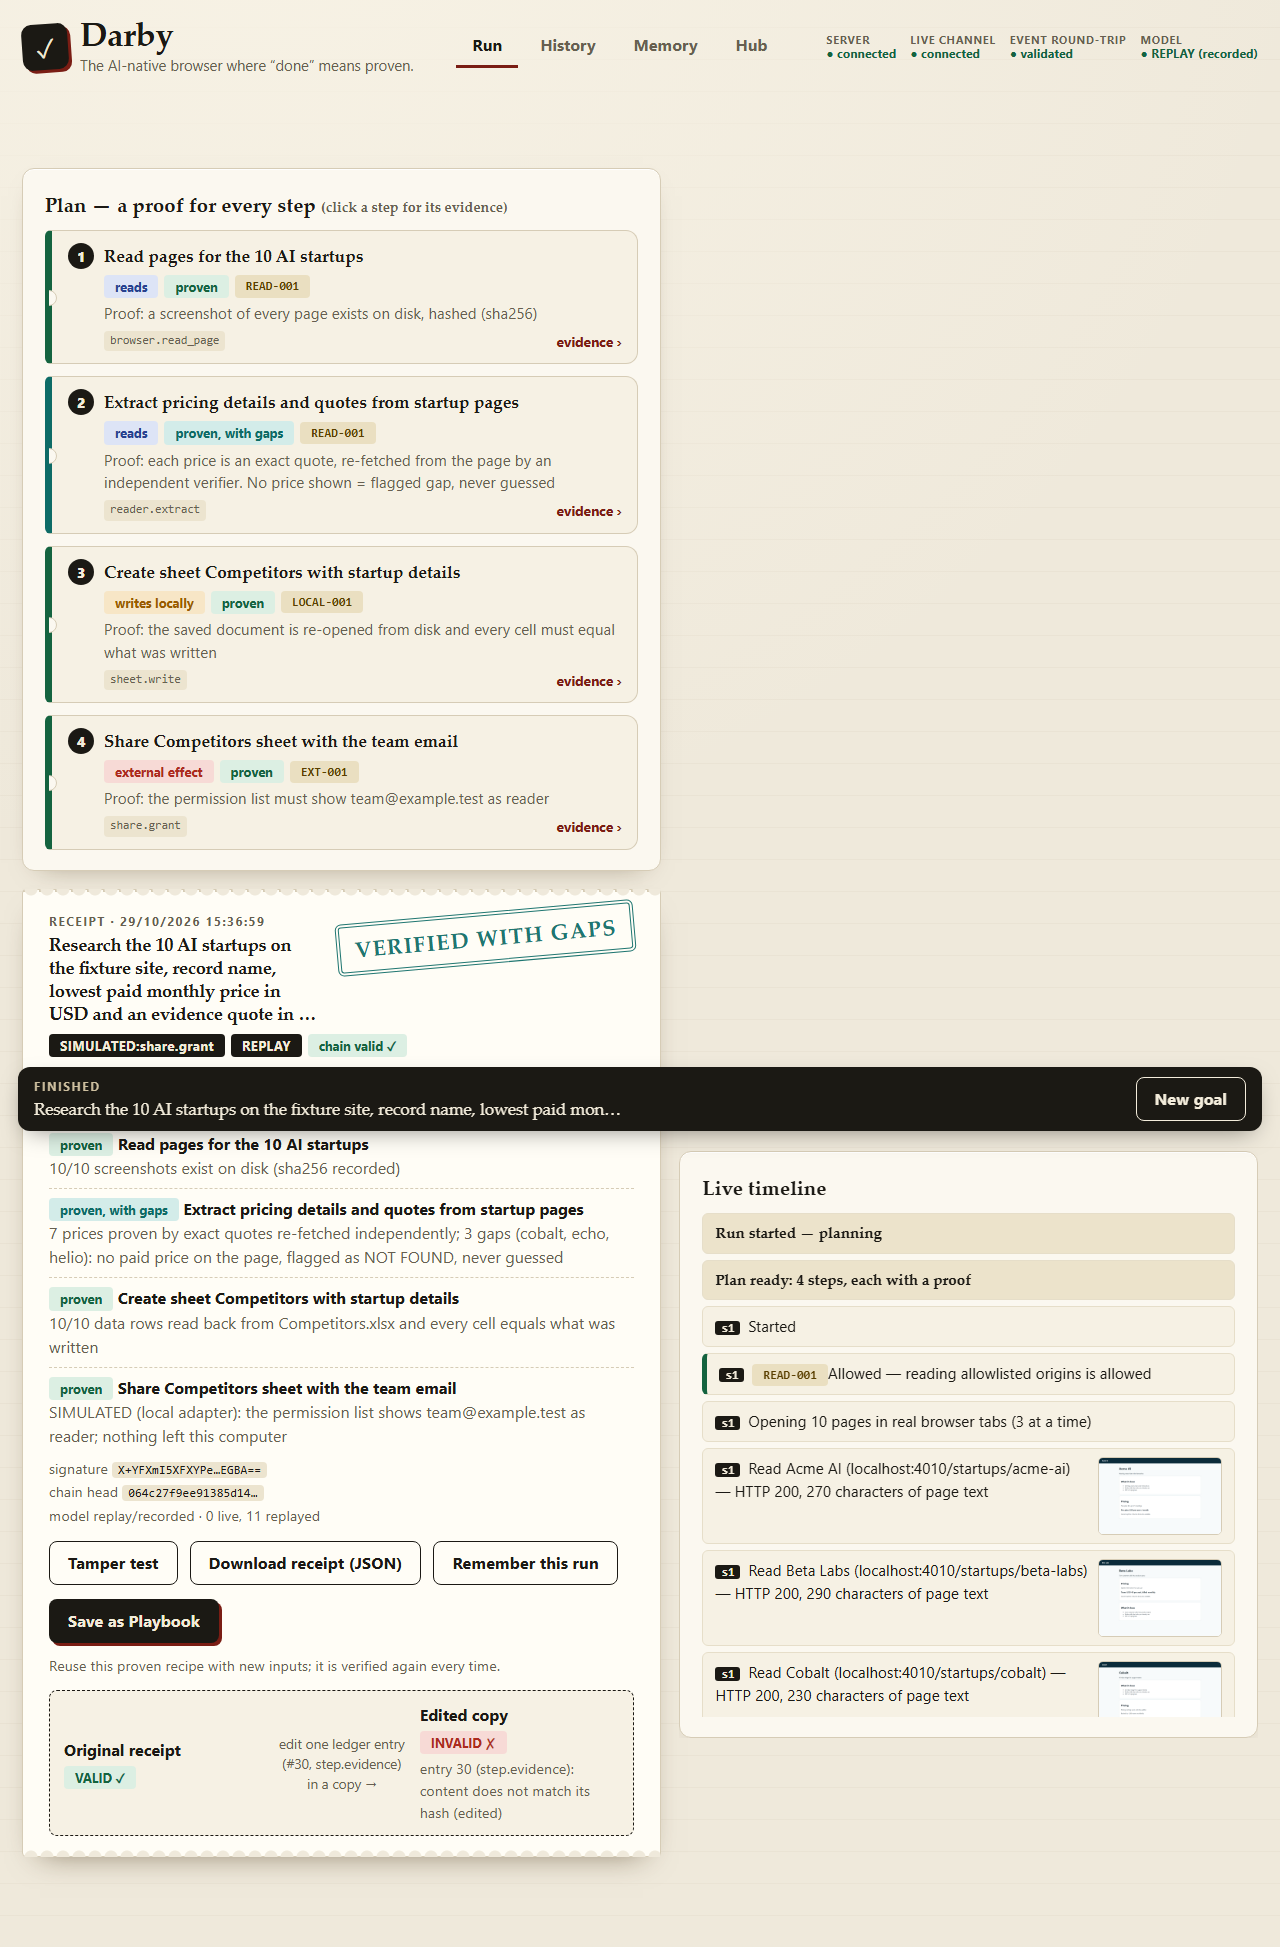
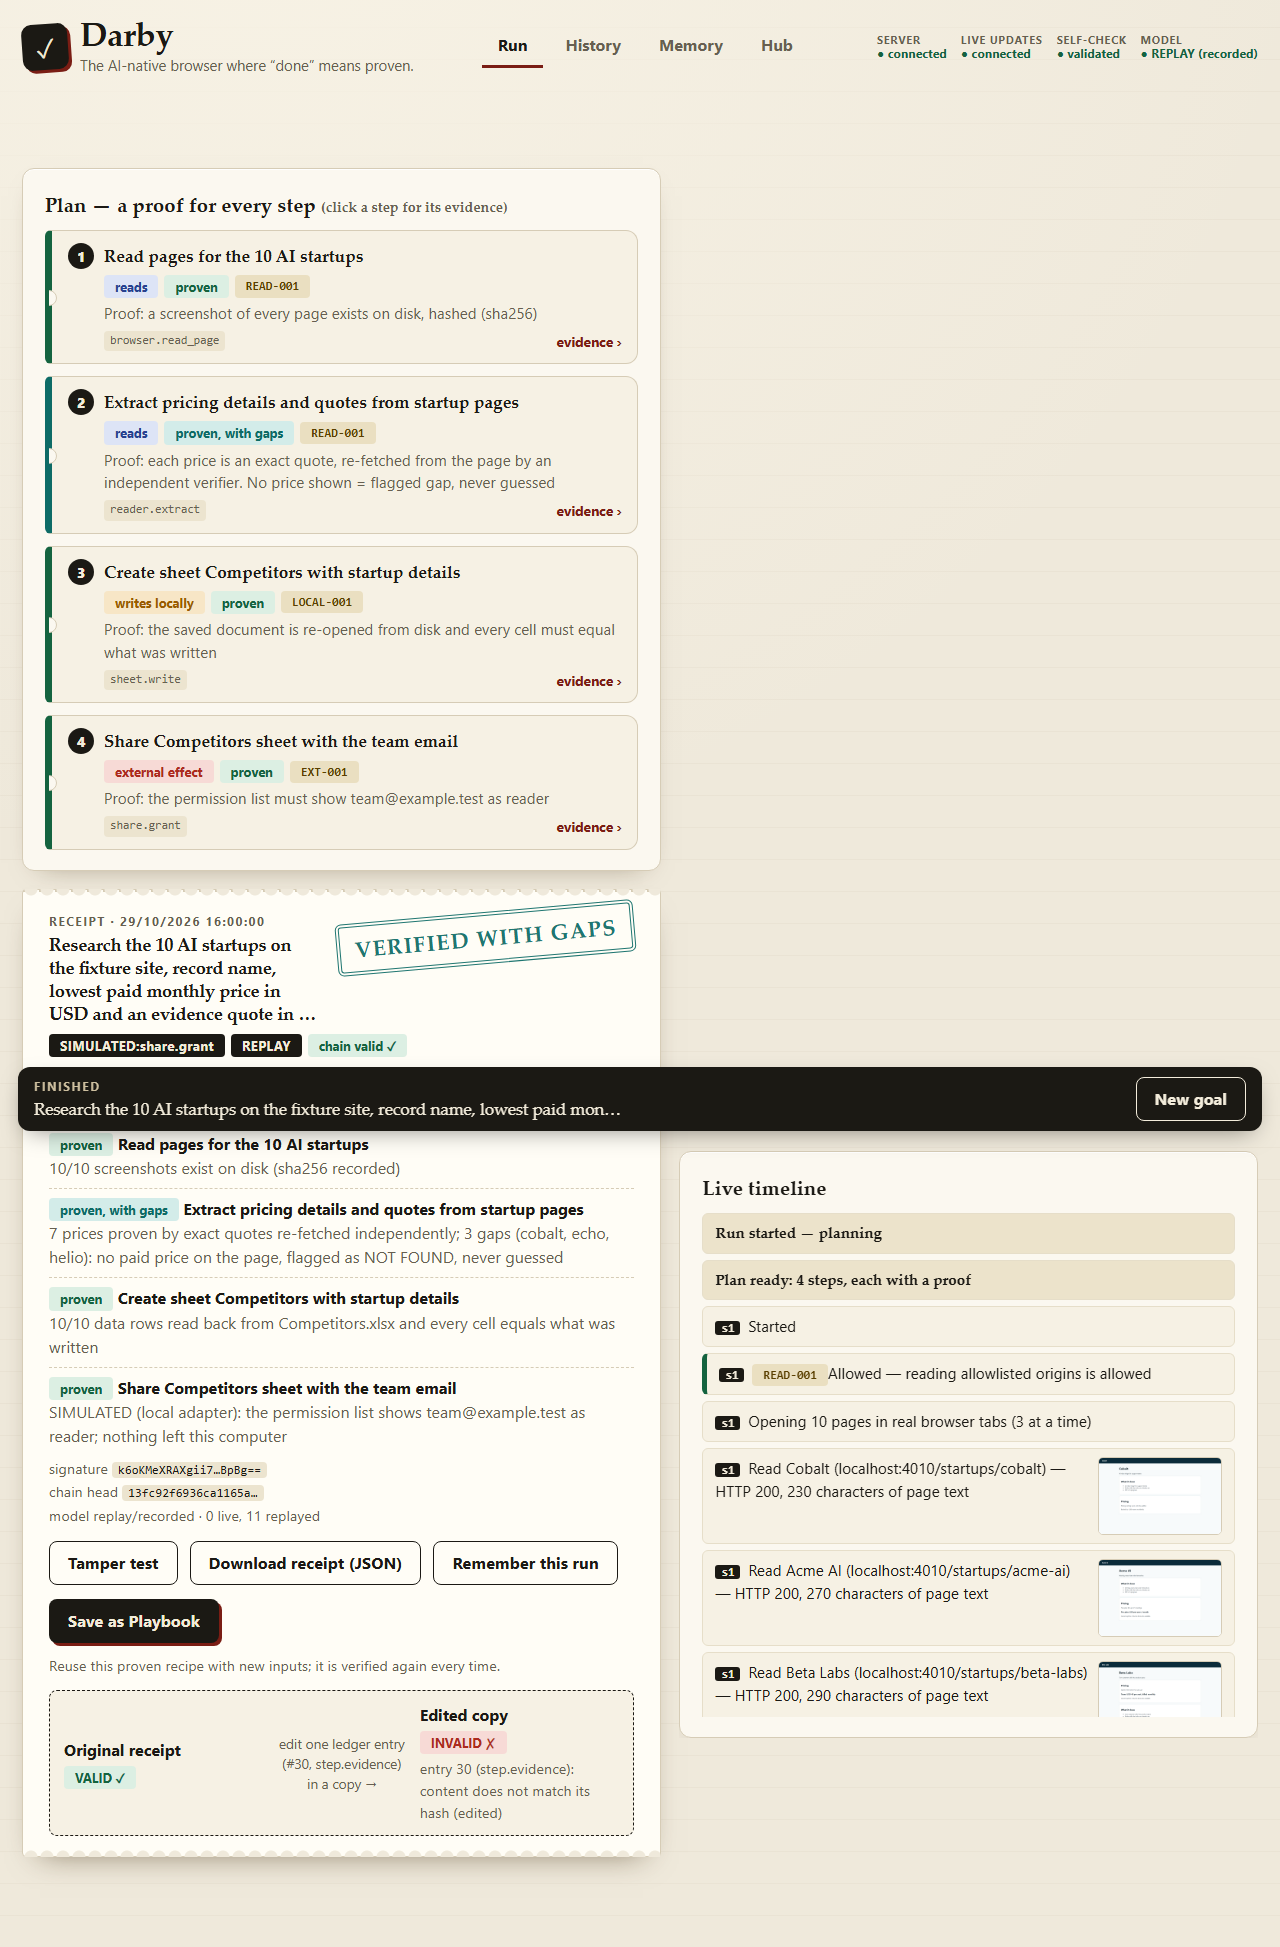
UI polish: first-run explainer, plain status labels, AI casing, teaser poster, clean approval path; walkthrough waits for the landing preview

diff --git a/apps/companion/src/parts.tsx b/apps/companion/src/parts.tsx
@@ -106,7 +106,7 @@ export function ApprovalCard({ run, onResolve, onTakeover }: { run: RunView; onR
   if (!a) return null;
   const d = a.details as Record<string, unknown>;
   const rows: [string, string][] = ([['Target', 'target'], ['Role', 'role'], ['Document', 'document'], ['Content', 'contentSummary']] as [string, string][])
-    .filter(([, k]) => d[k] !== undefined).map(([l, k]) => [l, String(d[k])]);
+    .filter(([, k]) => d[k] !== undefined).map(([l, k]) => [l, k === 'document' ? String(d[k]).split(/[\/]/).pop() ?? String(d[k]) : String(d[k])]);
   return (
     <section className="approval" data-testid="approval-card" role="alert" aria-label="Approval needed">
       <div className="approval-tag">Needs your approval</div>
@@ -141,7 +141,7 @@ export function ReviewPanel({ run, detail }: { run: RunView; detail: RunDetail |
       <h2>Review — what Darby made <span className="muted small">(look before you approve)</span></h2>
       <div className="review-grid">
         {hero && (<figure><img src={hero} alt="Hero image" data-testid="review-hero" /><figcaption>Hero image <span className="chip label">generated placeholder</span></figcaption></figure>)}
-        {teaser && (<figure><video src={teaser} controls preload="metadata" data-testid="review-video" /><figcaption>15-second teaser (hero + captions + voiceover)</figcaption></figure>)}
+        {teaser && (<figure><video src={teaser} poster={hero ?? undefined} controls preload="metadata" data-testid="review-video" /><figcaption>15-second teaser (hero + captions + voiceover)</figcaption></figure>)}
         {voice && (<figure><audio src={voice} controls preload="metadata" data-testid="review-audio" /><figcaption>Voiceover {labels.filter((l) => /^(VOICE:|PLACEHOLDER:voiceover)/.test(l)).map((l) => (<span key={l} className="chip label">{l}</span>))}</figcaption></figure>)}
         {landing && (<figure className="wide"><iframe src={landing} title="Landing page preview" sandbox="allow-scripts" data-testid="review-page" /><figcaption>Landing page (runs in a sandbox) · <a href={landing} target="_blank" rel="noreferrer">open</a>{copy && <> · <a href={copy} target="_blank" rel="noreferrer">copy.json</a></>}</figcaption></figure>)}
       </div>

diff --git a/apps/companion/src/App.tsx b/apps/companion/src/App.tsx
@@ -88,8 +88,8 @@ export function App() {
         </nav>
         <ul className="leds">
           <Led name="Server" link={d.server} />
-          <Led name="Live channel" link={d.socket} />
-          <Led name="Event round-trip" link={d.echo === 'ok' ? 'up' : d.echo === 'failed' ? 'down' : 'connecting'} detail={d.echo === 'ok' ? 'validated' : undefined} />
+          <Led name="Live updates" link={d.socket} />
+          <Led name="Self-check" link={d.echo === 'ok' ? 'up' : d.echo === 'failed' ? 'down' : 'connecting'} detail={d.echo === 'ok' ? 'validated' : undefined} />
           {d.config && <Led name="Model" link="up" detail={d.config.llm.replayOnly ? 'REPLAY (recorded)' : `${d.config.llm.provider}/${d.config.llm.model}`} />}
         </ul>
       </header>
@@ -127,6 +127,13 @@ export function App() {
               {EXAMPLES.map((x) => (<button key={x.label} className="btn ghost" onClick={() => setGoal(x.goal)} data-testid={`example-${x.label.slice(0, 6).replace(/\W/g, '').toLowerCase()}`}>{x.label}</button>))}
             </div>
             {d.error && <p className="error" role="alert">{d.error}</p>}
+          </section>
+          <section className="how" aria-label="How Darby works">
+            <ol>
+              <li><span className="how-n">1</span><div><strong>Plans with proof</strong><p>Every step names what would prove it, before anything runs.</p></div></li>
+              <li><span className="how-n">2</span><div><strong>Works in real tabs</strong><p>Pages are read by an isolated reader. Risky steps wait for you.</p></div></li>
+              <li><span className="how-n">3</span><div><strong>Checks itself, then shows the receipt</strong><p>An independent verifier re-reads the result. You get a signed, tamper-evident verdict.</p></div></li>
+            </ol>
           </section>
           <History items={d.history.slice(0, 5)} onOpen={(id) => void d.open(id)} />
         </main>

diff --git a/apps/companion/src/styles.css b/apps/companion/src/styles.css
@@ -172,3 +172,12 @@ textarea { resize: vertical; }
 .pb-saved { margin: 12px 0 0; color: var(--green); font-weight: 600; }
 @media (max-width: 760px) { .pb-head { flex-direction: column; } }
 .pb-check input { margin: 0; width: auto; padding: 0; }
+
+/* first-run explainer */
+.how ol { list-style: none; margin: 0; padding: 0; display: grid; grid-template-columns: repeat(3, 1fr); gap: 14px; }
+.how li { display: flex; gap: 12px; align-items: flex-start; background: var(--card); border: 1px solid var(--rule); border-radius: 12px; padding: 14px 16px; }
+.how-n { flex: none; width: 30px; height: 30px; border-radius: 50%; background: var(--ink); color: #fff; display: grid; place-items: center; font-weight: 700; }
+.how strong { display: block; font-family: var(--serif); font-size: 1.05rem; }
+.how p { margin: 2px 0 0; color: var(--muted); font-size: .95rem; }
+@media (max-width: 860px) { .how ol { grid-template-columns: 1fr; } }
+@media print { .tabs, .leds, .btn { display: none !important; } }

diff --git a/apps/companion/src/state.ts b/apps/companion/src/state.ts
@@ -129,4 +129,5 @@ export function proofLine(c: EvidenceContract | null): string {
 }
 
 export const VERDICT_TEXT: Record<string, string> = { VERIFIED: 'Verified', VERIFIED_WITH_GAPS: 'Verified with gaps', FAILED: 'Failed', NEEDS_YOU: 'Needs you' };
-export const prettySlug = (s: string) => s.split('-').map((w) => w.charAt(0).toUpperCase() + w.slice(1)).join(' ');
+const ACRONYMS = new Set(['ai', 'ui', 'ci', 'api', 'pr']);
+export const prettySlug = (s: string) => s.split('-').map((w) => (ACRONYMS.has(w) ? w.toUpperCase() : w.charAt(0).toUpperCase() + w.slice(1))).join(' ');
